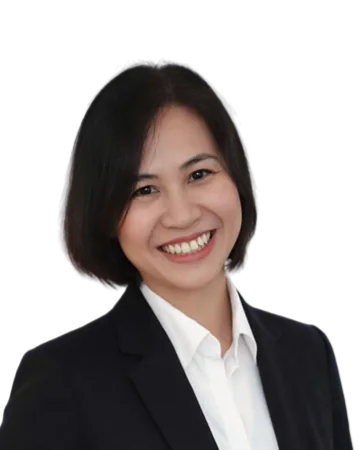
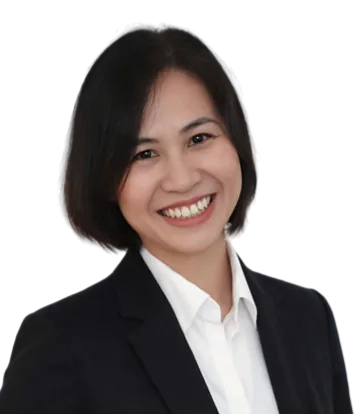
Staff cards: titles only, Teaching Staff, shorter frame
Each card now shows a name and a title, with no line under it. Ms. Hien
moves ahead of Mr. David, and Ms. Thanh, Ms. Tham, Ms. Duyen, Ms. Thắm V
and Ms. Thoa are titled Teaching Staff (Nhân viên giảng dạy).

The portrait frame is 20:23 instead of 4:5: the space taken away is all
above the heads, so faces keep their size and the bottom edge stays put.
portraits.py also stops a frame two pixels inside a photo that ends
early, so no half-transparent row shows at the bottom of the card.

The Nursery is no longer described by its staffing on Early Years,
Academics, Schedule or the Early Years program card, in either language.

diff --git a/src/assets/css/main.css b/src/assets/css/main.css
@@ -1345,7 +1345,7 @@ tr:last-child td { border-bottom: 0; }
 .tcard--t5 { --a: #1F8F73; --b: #9CC64A; }
 .tcard--t6 { --a: #0B4FBF; --b: #7C5CFF; }
 
-.tcard__stage { position: relative; aspect-ratio: 4 / 5; overflow: hidden; background: linear-gradient(165deg, var(--a), var(--b)); }
+.tcard__stage { position: relative; aspect-ratio: 20 / 23; overflow: hidden; background: linear-gradient(165deg, var(--a), var(--b)); }
 /* a soft light behind the head, so the cutout sits in the card instead of on it */
 .tcard__stage::before {
   content: ""; position: absolute; inset: 0;

diff --git a/scripts/portraits.py b/scripts/portraits.py
@@ -35,7 +35,7 @@ originals/portraits.json is an array of:
     "zoom": 1.0                           // optional: >1 makes this face bigger than the rest
   }
 
-Output: src/assets/img/team/<slug>-{360,720}.webp (4:5, alpha) and src/_data/cutouts.json.
+Output: src/assets/img/team/<slug>-{360,720}.webp (20:23, alpha) and src/_data/cutouts.json.
 The matte is cached in originals/_cache/portraits/, so a change to the grade is quick.
 
 Needs: pip install rembg pymatting opencv-python pillow numpy
@@ -61,9 +61,11 @@ CACHE = ORIG / "_cache" / "portraits"
 YUNET = ORIG / "_models" / "face_detection_yunet_2023mar.onnx"
 MATTE_MODEL = os.environ.get("PORTRAIT_MATTE", "birefnet-portrait")
 
-# The framing everyone shares, as fractions of the 4:5 card.
-ASPECT = 5 / 4     # height over width
-EYES = 0.41        # the eye line, down from the top of the card
+# The framing everyone shares, as fractions of the 20:23 card (.tcard__stage in main.css).
+# It was 4:5 with the eyes 41% down; Bowen found too much empty space over the heads, so
+# 0.1 of the width came off the top and the face size and the bottom edge stayed put.
+ASPECT = 23 / 20   # height over width
+EYES = 0.3587      # the eye line, down from the top of the card
 FACE = 0.163       # face size (mean of eye-to-eye and eyes-to-mouth) over card width
 WIDTHS = (360, 720)
 WORK = 1440        # the widest the card is worked at before the final resize
@@ -318,11 +320,12 @@ def frame(face, w, h, spec):
 def fit_bottom(box, face, h):
     """If the photo stops above the card's bottom edge, zoom in until it does not."""
     left, top, cw, ch = box
-    if top + ch <= h:
+    end = h - 2    # stop a little inside the photo, so resampling never reaches past its edge
+    if top + ch <= end:
         return box, 1.0
     eye_y = face["eye"][1]
     # keep the eyes on their line: the part below them must shrink to fit
-    below = h - eye_y
+    below = end - eye_y
     ch2 = below / (1 - EYES)
     k = ch / ch2
     cw2 = ch2 / ASPECT
